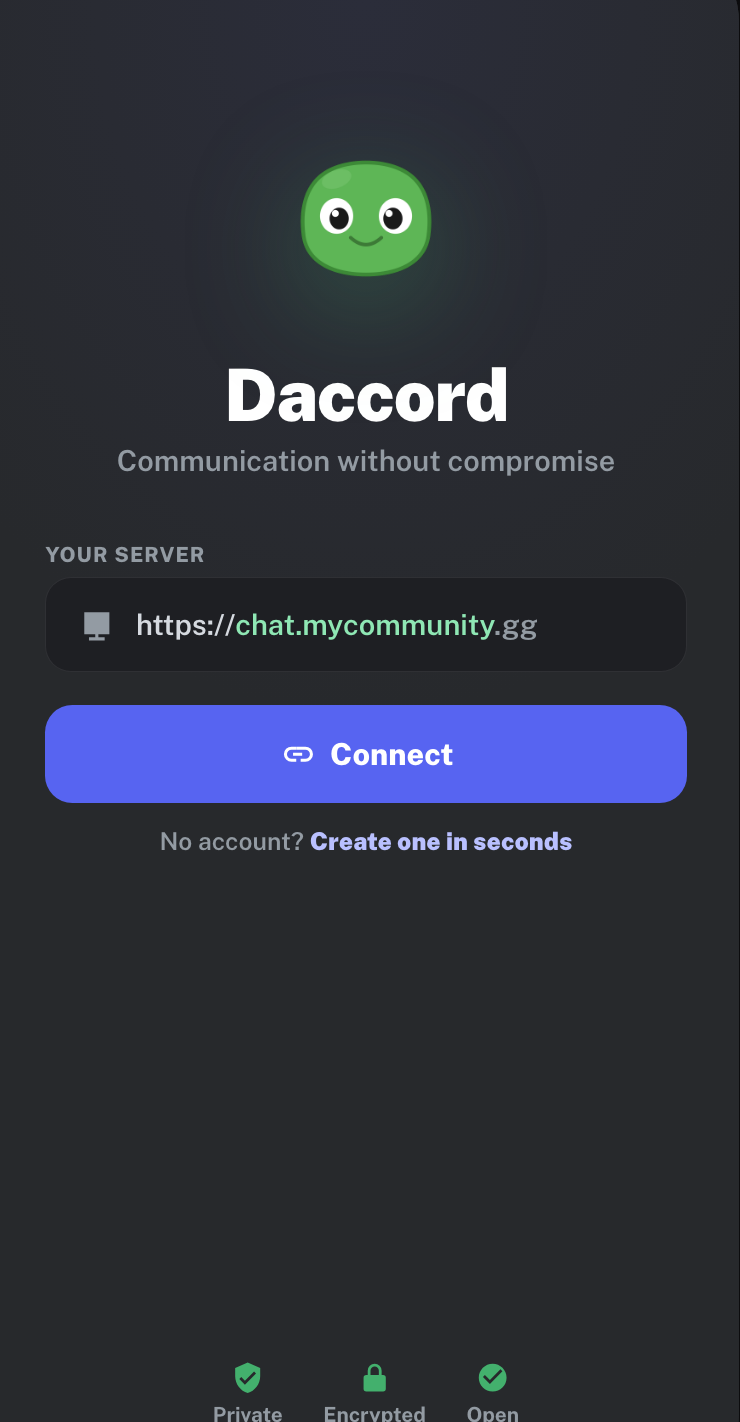
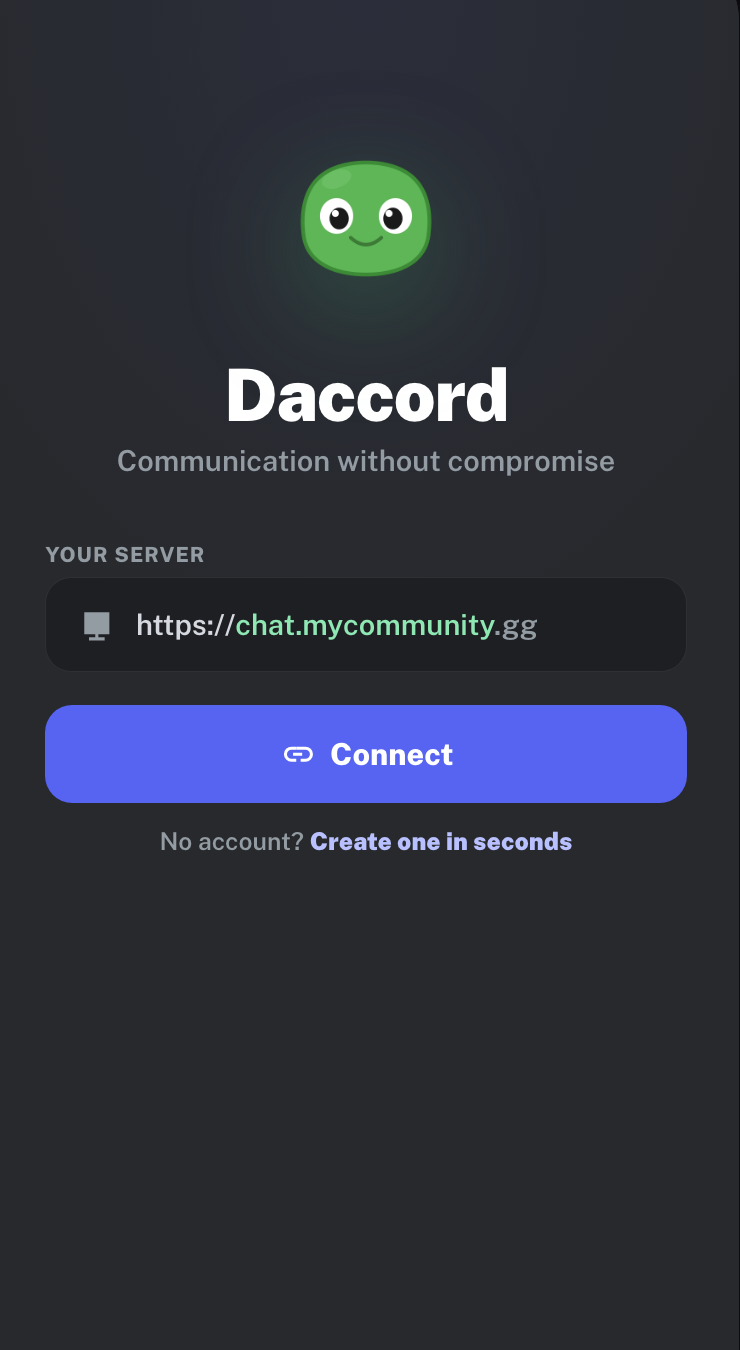
fix(ios): stop scene 6 sawing the trust row in half
The bottom edge of the phone frame cut through the middle of the glyphs in
`Private / Encrypted / Open`, leaving the icons and the tops of the words
above a hard edge. That was inherited from the source capture rather than
introduced by the status-bar crop, but a headline screenshot with text
sawn in half is the "partially implemented" signal guideline 2.2 rejects
for (#292), so it does not ship.

The row cannot be shown whole: its labels are already truncated inside the
source asset, so the missing pixels do not exist to restore. It is cropped
out instead — t-06 ends at 1350, inside the flat 851-1361 band, so the
frame now shows a complete if shorter screen. The phone frame keeps the
one aspect it uses for all six scenes and cover-crops t-06 by 28px a side;
nothing in that capture sits within 45px of an edge, so that slices
nothing either. iPad is unaffected: its window was already the top 1065
rows.

Audited the other eleven frames for the same defect. Every crop edge in
the set — both capture extremes, the phone side cuts, and the iPad
horizontal cuts including the two scenes anchored `center bottom` — lands
in pixels that are flat across the cut, so no glyph or icon is severed
anywhere.

`ipad-02` still ends with ~14% of the tablet screen empty below `AFK`.
That is the phone-layout capture failing to fill a tablet frame, not
something to decorate over; real three-pane captures put a chat column and
[…]

diff --git a/store-media/ios-generator/template.html b/store-media/ios-generator/template.html
@@ -22,7 +22,9 @@
   }
   /* canvas size + per-device tuning.
      --screen-ar is the framed screen's aspect: the phone frame matches the
-     inner captures in ./inner (740x1462 after the status bar was cropped off),
+     inner captures in ./inner (740x1462 after the status bar was cropped off;
+     t-06 is 740x1350 and is the one capture the phone frame crops, by 28px a
+     side, which is why nothing in it sits near the left or right edge),
      the tablet frame uses an iPad portrait aspect so the iPad renders are not
      an iPhone-shaped mockup. --dev-r/--screen-r/--dev-pad are fractions of
      --dev-w, so each frame keeps its own corner radii and bezel weight. */

diff --git a/docs/app-store-deploy.md b/docs/app-store-deploy.md
@@ -288,13 +288,13 @@ screenshots — both generated from `store-media/ios-generator/`:
 - **A painted status bar.** Every capture in `store-media/ios-generator/inner/`
   had a 9:41 + signal/Wi-Fi/battery bar drawn into it that is not iOS's.
 
-Three rules for anything that regenerates these:
+Four rules for anything that regenerates these:
 
 1. **No other platform, anywhere in the copy.** Not a badge, not a pill, not a
    subhead — no "Android", "Windows", "Linux", "desktop", "web", "all your
    devices", and no third-party product names either. Describe the iOS app only.
 2. **No status bar at all.** The inner captures are cropped so the app content
-   starts at its own app bar (740x1462, and 740x1422 for `t-06`); `--screen-ar`
+   starts at its own app bar (740x1462, and 740x1350 for `t-06`); `--screen-ar`
    in `template.html` matches that, so the frame never stretches them. If a
    capture is ever replaced, crop the status bar off rather than redrawing an
    iOS-looking one, and re-point `--screen-ar` at the new size.
@@ -303,6 +303,15 @@ Three rules for anything that regenerates these:
    do not read as an iPhone mockup on an iPad product page. Scenes may set
    `focus` to choose which end of the taller phone capture that wider frame
    keeps.
+4. **Nothing may be half-visible.** No frame edge may saw through text or an
+   icon — that reads as unfinished, which is what [guideline
+   2.2](https://github.com/DaccordProject/daccord/issues/292) rejects for. Every
+   crop edge has to land in flat pixels. `t-06` is cropped to 1350 rather than
+   its full height for exactly this reason: its "Private / Encrypted / Open"
+   row was truncated in the source asset, so the row could never be shown
+   whole and is excluded instead. After a regeneration, check both the top and
+   the bottom edge of all twelve, including the two iPad scenes anchored
+   `center bottom`.
 
 Regenerate with `CHROME=<chromium> store-media/ios-generator/render.sh`, then
 copy `store-media/ios-generator/out/` over `store-media/ios-iphone-6.5/` and
@@ -314,8 +323,15 @@ Still outstanding: the inner captures are illustrative compositions of the app's
 logical px (`_wideLayoutBreakpoint`), so a real iPad runs the wide layout and
 these do not show it. Replacing them needs genuine captures from an iPad or the
 iOS Simulator; until then the iPad set is honest about proportions but not about
-the layout. Screenshots are metadata, so a new upload in App Store Connect
-(Previews and Screenshots → View All Sizes in Media Manager) needs no new build.
+the layout. It shows: `ipad-02` ends with ~14% of the tablet screen empty
+below the `AFK` row, because a phone-width channel list is all that capture
+has to fill a tablet-width frame with. Real three-pane captures put a chat
+column and a member list in that space, so they fix it structurally — do not
+fill it with decoration in the meantime. The per-device `--screen-ar`,
+`--dev-w` and radius variables exist so a new capture set can be dropped in by
+editing them alone. Screenshots are metadata, so a new upload in App Store
+Connect (Previews and Screenshots → View All Sizes in Media Manager) needs no
+new build.
 
 ## Guideline 2.5.1: no libmpv in the iOS build
 
